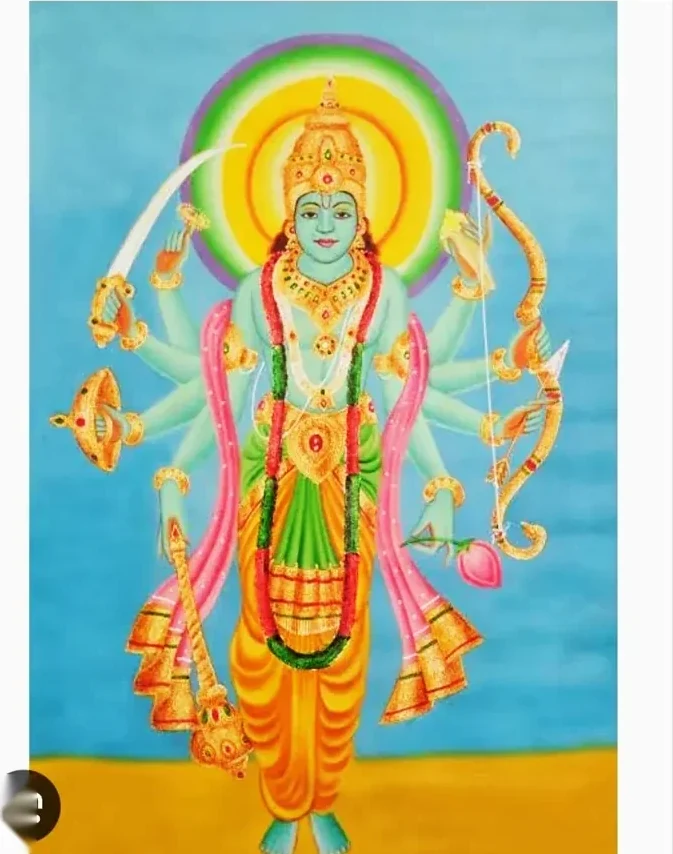
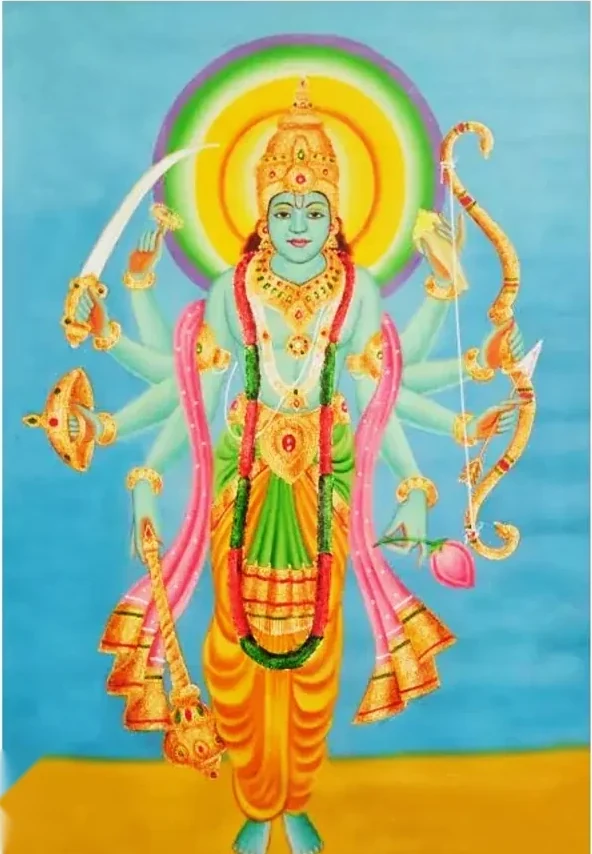
Narayaneeyam next corrections

diff --git a/styles.css b/styles.css
@@ -3695,3 +3695,12 @@ img {
     padding-left: 1.25rem;
   }
 }
+
+.analysis-table tbody tr.table-head-row td {
+  color: #5C3A1E;
+  font-weight: 600;
+}
+
+[data-theme="dark"] .analysis-table tbody tr.table-head-row td {
+  color: #E3B98A;
+}

diff --git a/scripts/apply_narayaneeyam_corrections_3.py b/scripts/apply_narayaneeyam_corrections_3.py
@@ -1,0 +1,161 @@
+"""
+apply_narayaneeyam_corrections_3.py
+Third batch of corrections for data/works/narayaneeyam.json. Run after the first two:
+
+    python scripts/build_narayaneeyam.py "<folder of Word files>"
+    python scripts/apply_narayaneeyam_corrections.py
+    python scripts/apply_narayaneeyam_corrections_2.py
+    python scripts/apply_narayaneeyam_corrections_3.py
+
+Picture positions are 1-based and refer to each verse's list as it stands after batch 2.
+"""
+
+import json
+import os
+import re
+
+import cv2
+import numpy as np
+from PIL import Image, ImageDraw, ImageFont
+
+from apply_narayaneeyam_corrections_2 import ASSETS, IMG_DIR, REL, WORK, crop, inpaint, save_webp
+
+# pictures replaced by a supplied file: (verse, position) -> (asset, new name)
+REPLACE = {
+    ("23.3", 2): ("b3_23.3.jpeg", "d023_3b.webp"),
+    ("24.6", 2): ("b3_24.6.jpeg", "d024_6b.webp"),
+    ("30.1", 2): ("b3_30.1.jpeg", "d030_1b.webp"),
+    ("49.9", 1): ("b3_49.9.jpeg", "d049_9b.webp"),
+    ("77.11", 1): ("b3_77.11.jpeg", "d077_11b.webp"),
+    ("81.10", 2): ("b3_81.10.jpeg", "d081_10b.webp"),
+    ("100.11", 1): ("b3_100.11.jpeg", "d100_11b.webp"),
+}
+
+CROPS = {
+    ("20.5", 1): (0, 0, 1, 0.975),
+    ("33.3", 1): (0, 0, 1, 0.925),
+    ("43.1", 2): (0.175, 0, 0.83, 1),
+    ("92.9", 2): (0, 0, 0.915, 1),
+}
+
+# lettering painted out ("white" = pale lettering)
+INPAINT = {
+    ("34.3", 3): [("white", (0.03, 0.02, 0.70, 0.14)), ("white", (0.86, 0.33, 0.96, 0.82))],
+}
+
+# speech bubbles filled with the colour around them: (verse, position) -> (region, seed, flat colour point or None)
+BUBBLES = {
+    ("31.10", 1): ((0, 0, 0.50, 0.46), (0.10, 0.10), (0.04, 0.47)),
+    ("38.8", 2): ((0, 0, 0.58, 0.22), (0.20, 0.05), None),
+    ("39.3", 1): ((0, 0, 0.74, 0.20), (0.40, 0.03), None),
+    ("39.3", 2): ((0.30, 0, 0.72, 0.20), (0.52, 0.03), None),
+}
+
+# artist names written on a picture: (verse, position) -> (text, fill, outline)
+SIGNATURES = {
+    ("100.11", 2): ("Haripriya", (255, 248, 225), (60, 30, 10)),
+    ("93.10", 2): ("Raji Suresh", (70, 40, 20), (255, 255, 255)),
+}
+FONT = r"C:\Windows\Fonts\BRUSHSCI.TTF"
+
+
+def fill_bubble(path, region, seed, flat_pt):
+    im = Image.open(path).convert("RGB")
+    w, h = im.size
+    arr = np.array(im)
+    l, t, r, b = region
+    x0, y0, x1, y1 = round(l * w), round(t * h), round(r * w), round(b * h)
+    sat = np.array(im.convert("HSV"))[:, :, 1]
+    white = ((arr.min(axis=2) > 195) & (sat < 45)).astype(np.uint8)
+    limit = np.zeros_like(white)
+    limit[y0:y1, x0:x1] = 1
+    white &= limit
+    n, labels = cv2.connectedComponents(white, connectivity=4)
+    sx, sy = round(seed[0] * w), round(seed[1] * h)
+    lab = labels[sy, sx]
+    if lab == 0:
+        raise ValueError("bubble seed %s is not on white in %s" % (seed, path))
+    comp = (labels == lab).astype(np.uint8) * 255
+    contours, _ = cv2.findContours(comp, cv2.RETR_EXTERNAL, cv2.CHAIN_APPROX_SIMPLE)
+    filled = np.zeros_like(comp)
+    cv2.drawContours(filled, contours, -1, 255, thickness=cv2.FILLED)
+    mask = cv2.dilate(filled, np.ones((9, 9), np.uint8))
+    if flat_pt:
+        colour = np.median(arr[round(flat_pt[1] * h) - 6:round(flat_pt[1] * h) + 6,
+                               round(flat_pt[0] * w) - 6:round(flat_pt[0] * w) + 6].reshape(-1, 3), axis=0)
+        arr[mask > 0] = colour.astype(np.uint8)
+        out = arr
+    else:
+        out = cv2.inpaint(arr[:, :, ::-1], mask, 9, cv2.INPAINT_TELEA)[:, :, ::-1]
+    save_webp(Image.fromarray(out), path)
+
+
+def sign(path, text, fill, outline):
+    im = Image.open(path).convert("RGB")
+    w, h = im.size
+    font = ImageFont.truetype(FONT, max(18, round(h * 0.07)))
+    d = ImageDraw.Draw(im)
+    bbox = d.textbbox((0, 0), text, font=font, stroke_width=2)
+    x, y = w - (bbox[2] - bbox[0]) - round(w * 0.035), h - (bbox[3] - bbox[1]) - round(h * 0.045)
+    d.text((x, y), text, font=font, fill=fill, stroke_width=2, stroke_fill=outline)
+    save_webp(im, path)
+
+
+def main():
+    with open(WORK, encoding="utf-8") as f:
+        work = json.load(f)
+    by = {v["verse_num"]: v for v in work["verses"] if v.get("verse_num")}
+    warnings = []
+    snap = {vn: list(v["images"]) for vn, v in by.items()}
+
+    # ---- 8.2 table
+    m = by["8.2"]["meaning"]
+    m = m.replace("<tr><td>Let", '<tr class="table-head-row"><td>Let', 1)
+    m = re.sub(r'<tr class="table-part-2">(?=<td></td><td>Kalpa</td>)', '<tr class="table-part-2 table-head-row">', m, count=1)
+    m = m.replace("<td>71 CY</td><td>1 M+S</td>", "<td>71 CY</td><td>1 M</td>", 1)
+    m = m.replace("<td>0.4 CY</td><td></td>", "<td>0.4 CY</td><td>1 S</td>", 1)
+    by["8.2"]["meaning"] = m
+    for needle in ('table-head-row"><td>Let', "<td>1 M</td>", "<td>1 S</td>", "table-part-2 table-head-row"):
+        if needle not in m:
+            warnings.append("8.2: %s not applied" % needle)
+
+    # ---- single-paragraph prose
+    for vn in ("19.4", "19.7", "24.2", "93.2", "100.9"):
+        t = re.sub(r"(?:\s|<br>)+", " ", by[vn]["meaning"]).strip()
+        by[vn]["meaning"] = t
+
+    # ---- 39.6: the sloka lines in their own colour, the heading underlined
+    t = by["39.6"]["meaning"]
+    i = t.index("भागवतश्लोकः")
+    j = t.index("<br>மனிதர்கள்")
+    seg = t[i:j].replace("भागवतश्लोकः", "<u>भागवतश्लोकः</u>", 1)
+    by["39.6"]["meaning"] = t[:i] + '<span class="meaning-accent">' + seg + "</span>" + t[j:]
+
+    # ---- pictures
+    for (vn, pos), (asset, name) in REPLACE.items():
+        im = Image.open(os.path.join(ASSETS, asset)).convert("RGB")
+        im.thumbnail((1000, 1000))
+        save_webp(im, os.path.join(IMG_DIR, name))
+        snap[vn][pos - 1] = REL + name
+        by[vn]["images"] = list(snap[vn])
+    for (vn, pos), specs in INPAINT.items():
+        inpaint(snap[vn][pos - 1], specs)
+    for (vn, pos), (region, seed, flat) in BUBBLES.items():
+        try:
+            fill_bubble(snap[vn][pos - 1], region, seed, flat)
+        except ValueError as e:
+            warnings.append(str(e))
+    for (vn, pos), box in CROPS.items():
+        crop(snap[vn][pos - 1], box)
+    for (vn, pos), (text, fill, outline) in SIGNATURES.items():
+        sign(snap[vn][pos - 1], text, fill, outline)
+
+    with open(WORK, "w", encoding="utf-8") as f:
+        json.dump(work, f, ensure_ascii=False, indent=2)
+        f.write(chr(10))
+    for w in warnings:
+        print("WARN", w)
+
+
+if __name__ == "__main__":
+    main()

diff --git a/scripts/apply_narayaneeyam_corrections_2.py b/scripts/apply_narayaneeyam_corrections_2.py
@@ -68,7 +68,7 @@ CROPS[("81.10", 1)] = (0.12, 0, 0.72, 1)
 #   box   - everything in the box
 INPAINT = {
     ("20.5", 1): [("box", (0.33, 0.90, 0.63, 0.935))],
-    ("19.6", 1): [("box", (0.015, 0.785, 0.115, 0.865))],
+    ("19.6", 1): [("box", (0.0, 0.76, 0.17, 0.866))],
     ("31.5", 1): [("dark", (0.14, 0, 0.49, 0.08))],
     ("31.9", 1): [("dark", (0, 0, 0.265, 0.075))],
     ("31.10", 1): [("dark", (0, 0, 0.452, 0.37)), ("dark", (0, 0.37, 0.222, 0.425))],
@@ -139,23 +139,32 @@ def inpaint(path, specs):
             gray = arr.astype(int).mean(axis=2)
             fig = cv2.dilate(((sat >= 45) | (gray < 150)).astype(np.uint8), np.ones((9, 9), np.uint8)) > 0
             m = ((sat[y0:y1, x0:x1] < 45) & (gray[y0:y1, x0:x1] > 150) & ~fig[y0:y1, x0:x1]).astype(np.uint8) * 255
+        elif mode == "white":
+            m = ((sat[y0:y1, x0:x1] < 28) & (region.min(axis=2) > 222)).astype(np.uint8) * 255
         elif mode == "yellow":
             m = ((region[:, :, 0] > 190) & (region[:, :, 1] > 150) & (region[:, :, 2] < 120)).astype(np.uint8) * 255
         else:
             raise ValueError(mode)
         if mode != "box":
-            m = cv2.dilate(m, np.ones((3 if mode == "dark" else 5,) * 2, np.uint8))
+            m = cv2.dilate(m, np.ones(({"dark": 3, "white": 9}.get(mode, 5),) * 2, np.uint8))
         mask[y0:y1, x0:x1] |= m
     out = cv2.inpaint(arr[:, :, ::-1], mask, 5, cv2.INPAINT_TELEA)
     save_webp(Image.fromarray(out[:, :, ::-1]), path)
 
 
-def trim_white(path, thresh=238):
+def trim_white(path, thresh=240, frac=0.4, run=6):
+    """Trim white margins; a margin ends where `run` consecutive rows/columns are mostly picture."""
     im = Image.open(path).convert("RGB")
     a = np.array(im).min(axis=2) < thresh
-    cols = np.where(a.mean(axis=0) > 0.02)[0]
-    rows = np.where(a.mean(axis=1) > 0.02)[0]
-    save_webp(im.crop((cols[0], rows[0], cols[-1] + 1, rows[-1] + 1)), path)
+
+    def span(q):
+        ok = np.convolve(q.astype(int), np.ones(run, int), "valid") == run
+        idx = np.where(ok)[0]
+        return idx[0], idx[-1] + run
+
+    c0, c1 = span(a.mean(axis=0) > frac)
+    r0, r1 = span(a.mean(axis=1) > frac)
+    save_webp(im.crop((c0, r0, c1, r1)), path)
 
 
 def crop(path, box):
@@ -185,7 +194,7 @@ def word_pat(word):
 
 
 def join_words(meaning, a, b):
-    new, n = re.subn("(" + word_pat(a) + r")(?:\s|<br>)+(" + word_pat(b) + ")", r" ", meaning, count=1)
+    new, n = re.subn("(" + word_pat(a) + r")(?:\s|<br>)+(" + word_pat(b) + ")", lambda m: m.group(1) + " " + m.group(2), meaning, count=1)
     return new if n else None
 
 
